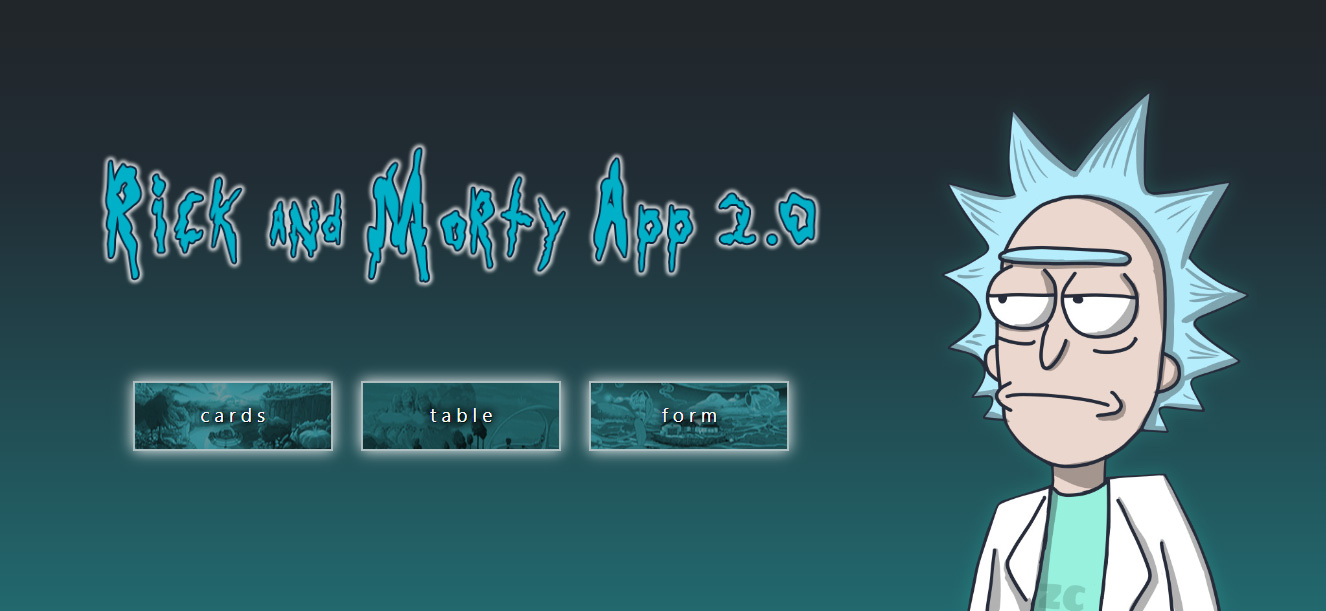
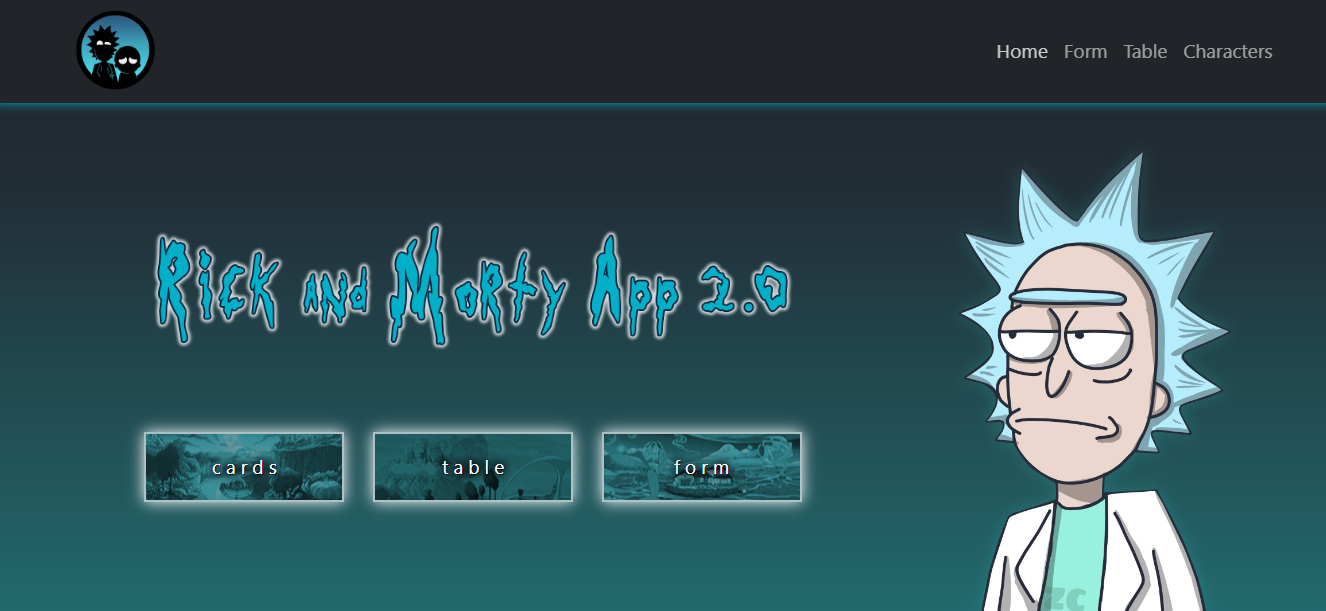
:sparkles: Add: Background pages

Changed region(s): [[0.0618, 0.2177, 0.6184, 0.8396], [0.0, 0.0, 1.0, 1.0], [0.7421, 0.0622, 0.9585, 0.0933]]

diff --git a/src/styles/styles.css b/src/styles/styles.css
@@ -31,52 +31,6 @@
 .nav-link:hover {
 text-shadow: 0 0 10px #00b0c8;
 }
-/* **************** */
-.main-characters{
-    position: relative;
-    top: 10vw;
-}
-.cards {
-    border: 2px solid #0b5ed7;
-    border-radius: 10px; 
-}
-.img-fluid {
-    border-radius: 10px 10px 0 0;
-}
-.content {
-    padding: 0.7rem;
-}
-.badge {
-    top: 10px;
-    right: 20px;
-    font-size: 17px;
-}
-.wrapped{
-    display: flex;
-    justify-content: center;
-    align-items: flex-start;
-    width: 100%;
-    height: 80vh;
-}
-.wrapped img{
-    width: 70%;
-    height: auto;
-    object-fit: cover;
-}
-.title{
-    text-align: center;
-}
-.links{
-    justify-content: center;
-}
-.checkedBtn:checked + label{
-    background-color: #0b5ed7;
-    color: white;
-}
-
-.checkedBtn[type="radio"]{
-    display: none; 
-}
 
 /******** HOME *******/
 
@@ -409,22 +363,86 @@ body {
 }
 /* RESPONSIVE */
 @media (max-width: 576px) {
-  .rnm-search {
-    width: 80%;
-  }
+    .rnm-search {
+        width: 80%;
+    }
 }
 @media (max-width: 768px) {
-  .rnm-next,
-  .rnm-prev {
-    display: none;
-  }
+    .rnm-next,
+    .rnm-prev {
+        display: none;
+    }
 }
 /**/
 .checkedBtn:checked + label {
-  background-color: #0b5ed7;
-  color: white;
+    background-color: #0b5ed7;
+    color: white;
 }
 
 .checkedBtn[type="radio"] {
-  display: none;
+    display: none;
+}
+/* ******* Tble ****** */
+
+.main-table {
+    position: relative;
+    padding-top: 6vw;
+    background-image: url(./../../public/img/bg-main-table.jpg);
+    background-repeat: no-repeat;
+    background-position: center;
+    background-size: auto;
+    background-attachment: fixed;
+}
+
+/* ******* Characters ****** */
+
+.main-characters{
+    position: relative;
+    padding-top: 10vw;
+    background-image: url(./../../public/img/bg-main-characters.jpg);
+    background-repeat: no-repeat;
+    background-position: center;
+    background-size: auto;
+    background-attachment: fixed;
+}
+.cards {
+    border: 2px solid #0b5ed7;
+    border-radius: 10px; 
+}
+.img-fluid {
+    border-radius: 10px 10px 0 0;
+}
+.content {
+    padding: 0.7rem;
+}
+.badge {
+    top: 10px;
+    right: 20px;
+    font-size: 17px;
+}
+.wrapped{
+    display: flex;
+    justify-content: center;
+    align-items: flex-start;
+    width: 100%;
+    height: 80vh;
+}
+.wrapped img{
+    width: 70%;
+    height: auto;
+    object-fit: cover;
+}
+.title{
+    text-align: center;
+}
+.links{
+    justify-content: center;
+}
+.checkedBtn:checked + label{
+    background-color: #0b5ed7;
+    color: white;
+}
+
+.checkedBtn[type="radio"]{
+    display: none; 
 }

diff --git a/src/components/Form.js b/src/components/Form.js
@@ -96,23 +96,23 @@ const Form = () => {
 
     let body = ``;
     body += `
-      <div class="portal-img">
-        <img class="portal-img" src="./img/pngfind.png">
+      <div className="portal-img">
+        <img className="portal-img" src="./img/pngfind.png">
       </div> 
-      <img class="img-title" src="./img/message.png" alt="Image title message received ">
-      <div class="background-mssg">
-        <h3 class="text-dimension"> From: Dimensión C-137</h3>
+      <img className="img-title" src="./img/message.png" alt="Image title message received ">
+      <div className="background-mssg">
+        <h3 className="text-dimension"> From: Dimensión C-137</h3>
         <div id="text-form">
-          <p class = "label-message">Message sent by:</p>
-          <p class = "text-message">${nameValue}</p>
-          <p class = "label-message">Phone:</p>
-          <p class = "text-message">${phoneValue}</p>
-          <p class = "label-message">Email:</p>
-          <p class = "text-message">${emailValue}</p>
-          <p class = "label-message">Message:</p>
-          <p class = "text-message">${messageValue}</p>
-          <p class = "label-message">Contact through:
-          <p class = "text-message">${selectedContact}</p>
+          <p className = "label-message">Message sent by:</p>
+          <p className = "text-message">${nameValue}</p>
+          <p className = "label-message">Phone:</p>
+          <p className = "text-message">${phoneValue}</p>
+          <p className = "label-message">Email:</p>
+          <p className = "text-message">${emailValue}</p>
+          <p className = "label-message">Message:</p>
+          <p className = "text-message">${messageValue}</p>
+          <p className = "label-message">Contact through:
+          <p className = "text-message">${selectedContact}</p>
       </div>
     `;
     document.getElementById('message-area').classList.add('message-area-active');

diff --git a/src/components/Rickandmortyfetch.js b/src/components/Rickandmortyfetch.js
@@ -28,18 +28,18 @@ function Rickandmortyfetch() {
 
     return (
         <div className="main-characters">
-        <Search setPageNumber={setPageNumber} setSearch={setSearch}/>          
-        <div className="container">
-            <div className="row">                
-                    <Filters setSpecies={setSpecies} setGender={setGender} setStatus={setStatus} setPageNumber={setPageNumber} />                
-                <div className="col-lg-8 col-12">
-                    <div className="row">
-                        <Characters results={results}/>
-                    </div>
-                </div>                
+            <Search setPageNumber={setPageNumber} setSearch={setSearch}/>          
+            <div className="container">
+                <div className="row">                
+                        <Filters setSpecies={setSpecies} setGender={setGender} setStatus={setStatus} setPageNumber={setPageNumber} />                
+                    <div className="col-lg-8 col-12">
+                        <div className="row">
+                            <Characters results={results}/>
+                        </div>
+                    </div>                
+                </div>
             </div>
-        </div>
-        <Pagination info={info} pageNumber={pageNumber} setPageNumber={setPageNumber} />
+            <Pagination info={info} pageNumber={pageNumber} setPageNumber={setPageNumber} />
         </div>       
         
     )

diff --git a/src/components/Filters/Categories/Gender.js b/src/components/Filters/Categories/Gender.js
@@ -6,7 +6,7 @@ const Gender = ({ setGender, setPageNumber }) => {
     return (
         <div className="accordion-item">
     <h2 className="accordion-header" id="headingOne">
-    <button class="accordion-button" type="button" data-bs-toggle="collapse" data-bs-target="#collapseOne" aria-expanded="true" aria-controls="collapseOne">
+    <button className="accordion-button" type="button" data-bs-toggle="collapse" data-bs-target="#collapseOne" aria-expanded="true" aria-controls="collapseOne">
         Gender
       </button>
     </h2>

diff --git a/src/components/Filters/FilterBtn.js b/src/components/Filters/FilterBtn.js
@@ -8,7 +8,7 @@ const FilterBtn = ({index, name, items, task, setPageNumber}) => {
                     setPageNumber(1);
                     task(items);
                 }} className="form-check-input checkedBtn" type="radio" name={name}id={`${name}-${index}`}/>
-                <label class="btn btn-outline-primary" for={`${name}-${index}`}>{items}</label>
+                <label className="btn btn-outline-primary" htmlFor={`${name}-${index}`}>{items}</label>
             </div>    
         </div>        
     )

diff --git a/src/styles/App.css b/src/styles/App.css
@@ -3,11 +3,18 @@
 *{
   box-sizing: border-box;
 }
+
 /*FORM*/
+
 .mainFormContainer {
   width: 100%;
-  height: 900px;
+  height:100vw;
   padding: 50px 0;
+  background-image: url(./../../public/img/bg-main-form.jpg);
+  background-repeat: no-repeat;
+  background-position: center;
+  background-size: auto;
+  background-attachment: fixed;
 }
 .form-message {
   width: 100%;

diff --git a/src/components/Table.js b/src/components/Table.js
@@ -13,12 +13,12 @@ const Table = () => {
       });
   }, []);
   return (
-    <>
+    <div className="main-table">
       <div>
         {
-         users ? <UserTable users={users}/> : <Loading />}
+          users ? <UserTable users={users}/> : <Loading />}
       </div>
-    </>
+    </div>
   );
 };
 
